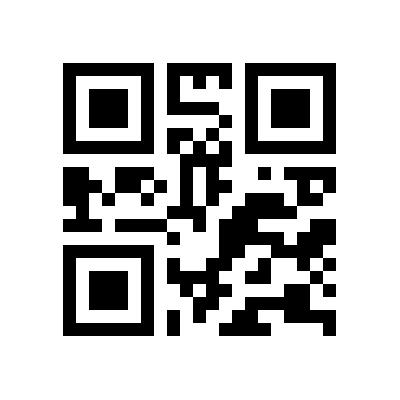
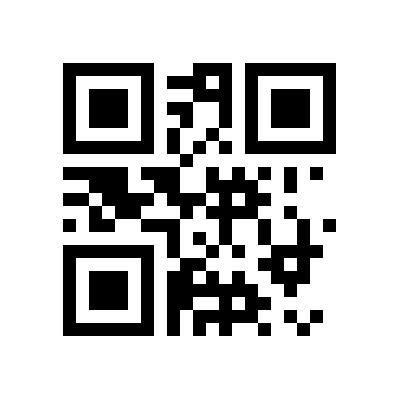
perfect BUG

Changed region(s): [[0.15, 0.36, 0.84, 0.84], [0.42, 0.15, 0.6, 0.36], [0.81, 0.42, 0.84, 0.48]]

diff --git a/src/main/webapp/css/public.css b/src/main/webapp/css/public.css
@@ -92,7 +92,8 @@ form input.layui-input[disabled]{ background:#f2f2f2; color:#595963!important; }
 h2.method{ font-size:18px; line-height:45px; padding-left:5px;}
 /*登录*/
 .loginHtml,.loginBody{ height:100%;}
-.loginBody{ background:url("../images/login_bg.jpg") no-repeat center center;background-size:100% 100%;overflow: hidden;}
+/*.loginBody{ background:url("../images/login_bg.jpg") no-repeat center center;background-size:100% 100%;overflow: hidden;}*/
+.loginBody{ background:url("../images/login_bg_now.png") no-repeat center center;background-size:100% 100%;overflow: hidden;}
 .loginBody form.layui-form{ padding:0 20px; width:300px; height:335px; position:absolute; left:50%; top:50%; margin:-150px 0 0 -150px; -webkit-box-sizing:border-box;-moz-box-sizing:border-box; -o-box-sizing:border-box; box-sizing:border-box; background:#fff;-webkit-border-radius:5px; -moz-border-radius:5px; border-radius:5px; box-shadow:0 0 50px #009688;}
 .login_face{ margin:-55px auto 20px; width:100px; height:100px; -webkit-border-radius:50%; -moz-border-radius:50%; border-radius:50%; border:5px solid #fff; overflow:hidden;box-shadow:0 0 30px #009688;}
 .login_face img{ width:100%;}

diff --git a/src/main/java/com/youngvolunteer/action/activity/ActivityAction.java b/src/main/java/com/youngvolunteer/action/activity/ActivityAction.java
@@ -232,29 +232,38 @@ public class ActivityAction extends ActionSupport implements ModelDriven<Volunte
     }
 
     /**
-     * 生成二维码
+     * 生成二维码  --  分别在web端的和微信端的images/QRCode文件夹生成二维码图片
      * @return
      */
     public String createActivityQRCode(){
 
-        String path = "/home/soldier/SOLDIER/idea_project/young_volunteers_web/src/main/webapp/images/QRCode";
-        String content = volunteerActivityEntity.getActivityId()+".jpg";
+        /**
+         * web端的地址
+         */
+        String web_path = "/home/soldier/SOLDIER/idea_project/young_volunteers_web/src/main/webapp/images/QRCode";
+        String wechat_path = "/home/soldier/SOLDIER/weChat_projects/young_volunteers_wechat/images/activity/QRCode";
+        String content = volunteerActivityEntity.getActivityId()+"";
+        String content_name = volunteerActivityEntity.getActivityId() + ".jpg";
         try {
 
             MultiFormatWriter multiFormatWriter = new MultiFormatWriter();
             Map hints = new HashMap();
             hints.put(EncodeHintType.CHARACTER_SET, "UTF-8");
             BitMatrix bitMatrix = multiFormatWriter.encode(content, BarcodeFormat.QR_CODE, 400, 400, hints);
-            //直接用活动编号作为二维码名称
-            File imgPath = new File(path, content);
-            MatrixToImageWriter.writeToFile(bitMatrix, "jpg", imgPath);
 
-            logger.info("二维码地址："+imgPath);
+            //直接用活动编号作为二维码名称
+            File web_imgPath = new File(web_path, content_name);  //web端
+            MatrixToImageWriter.writeToFile(bitMatrix, "jpg", web_imgPath);
+            File wechat_imgPath = new File(wechat_path, content_name);  //微信端
+            MatrixToImageWriter.writeToFile(bitMatrix, "jpg", wechat_imgPath);
+
+            logger.info("web端二维码地址："+web_imgPath);
+            logger.info("微信端二维码地址："+wechat_imgPath);
 
             /**
-             * 存在数据库里面的照片路径是在项目里的相对路径
+             * 存在数据库里面的照片路径是在web端项目里的相对路径
              */
-            String imgPath_datebase = ServletActionContext.getRequest().getContextPath() + "/images/QRCode/" + content;
+            String imgPath_datebase = ServletActionContext.getRequest().getContextPath() + "/images/QRCode/" + content_name;
             VolunteerActivityEntity volunteerActivityEntity_result = activityService.findOneVolunteery(volunteerActivityEntity);
             volunteerActivityEntity_result.setCodePath(imgPath_datebase);
             activityService.updateVolunteerActivity(volunteerActivityEntity_result);

diff --git a/src/main/java/com/youngvolunteer/dao/volunteersignup/impl/VolunteerSignUpDaoImpl.java b/src/main/java/com/youngvolunteer/dao/volunteersignup/impl/VolunteerSignUpDaoImpl.java
@@ -76,7 +76,7 @@ public class VolunteerSignUpDaoImpl implements VolunteerSignUpDao {
             criteria.add(Restrictions.eq("activityId", volunteerSignUpEntity.getActivityId()));
             criteria.add(Restrictions.eq("volunteerId", volunteerSignUpEntity.getVolunteerId()));
         } else {
-            criteria.add(Restrictions.eq("userId", volunteerSignUpEntity.getSignUpId()));
+            criteria.add(Restrictions.eq("signUpId", volunteerSignUpEntity.getSignUpId()));
         }
 
         List<VolunteerSignUpEntity> list = criteria.setResultTransformer(Criteria.DISTINCT_ROOT_ENTITY).list();

diff --git a/src/main/java/com/youngvolunteer/action/volunteersignup/VolunteerSignUpAction.java b/src/main/java/com/youngvolunteer/action/volunteersignup/VolunteerSignUpAction.java
@@ -135,10 +135,6 @@ public class VolunteerSignUpAction extends ActionSupport implements ModelDriven<
 
         VolunteerSignUpEntity oneVolunteerSignUp = volunteerSignUpService.findOneVolunteerSignUp(volunteerSignUpEntity);
 
-        //获取活动内容
-        volunteerActivityEntity.setActivityId(Integer.parseInt(oneVolunteerSignUp.getActivityId()));
-        VolunteerActivityEntity oneVolunteery = activityService.findOneVolunteery(volunteerActivityEntity);
-
         r = R.ok().put("data",oneVolunteerSignUp);
 
         return SUCCESS;
